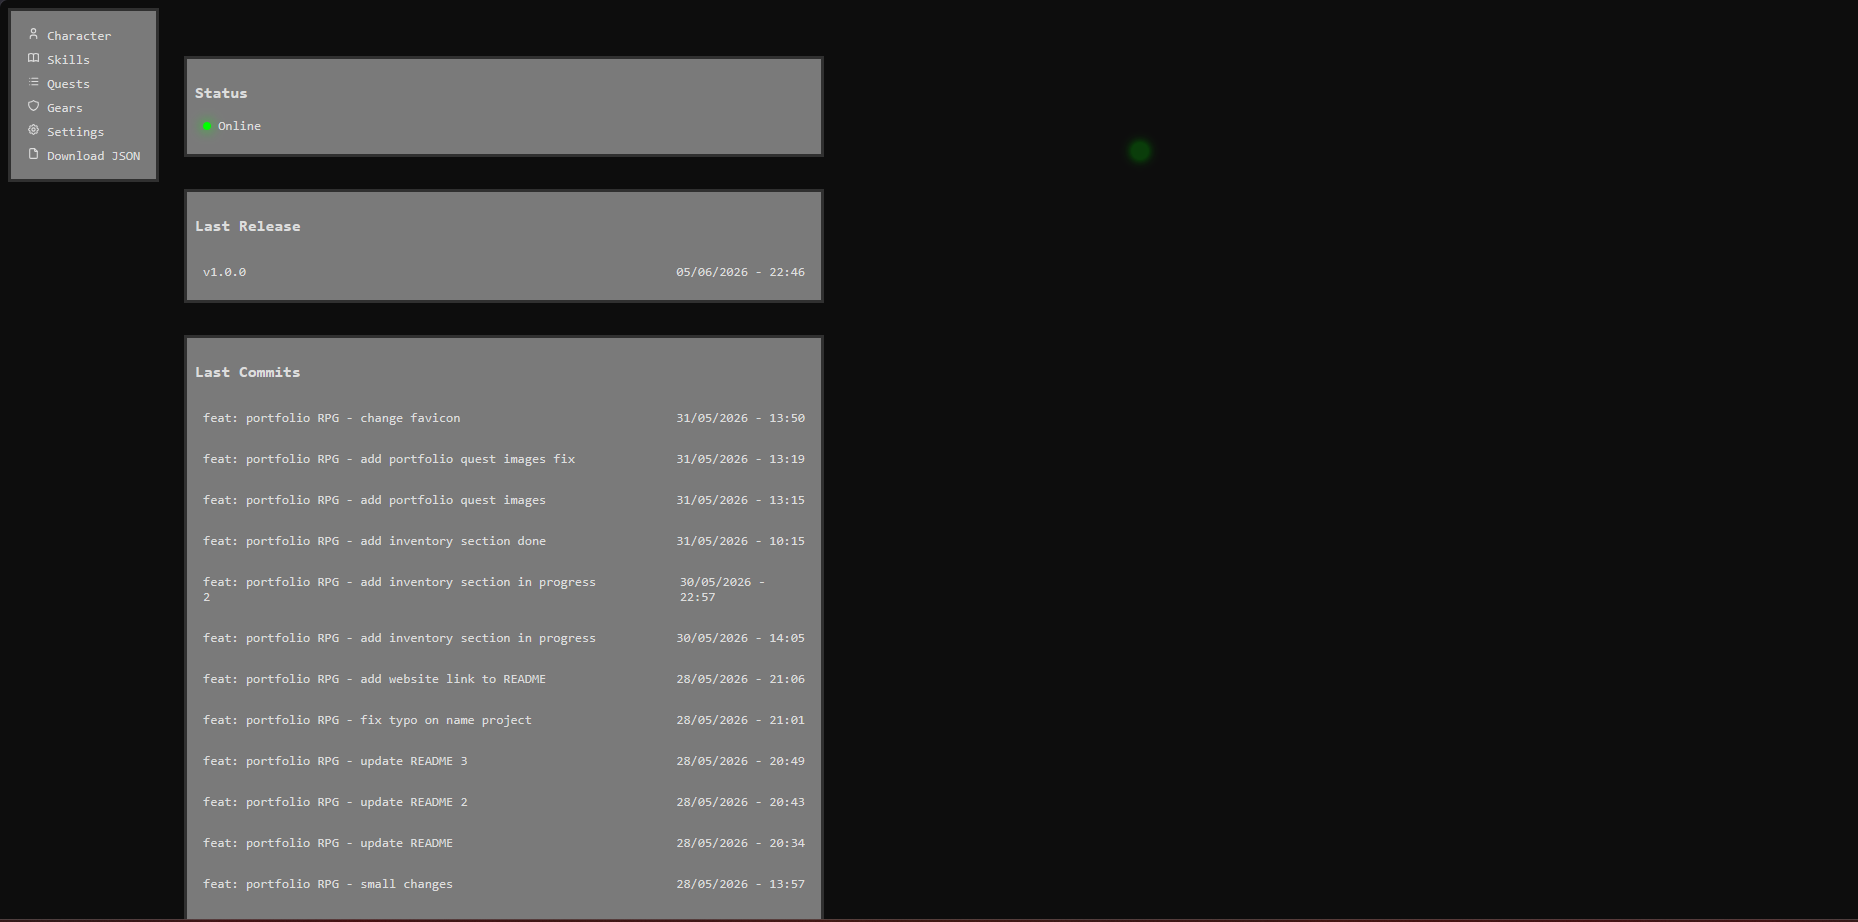
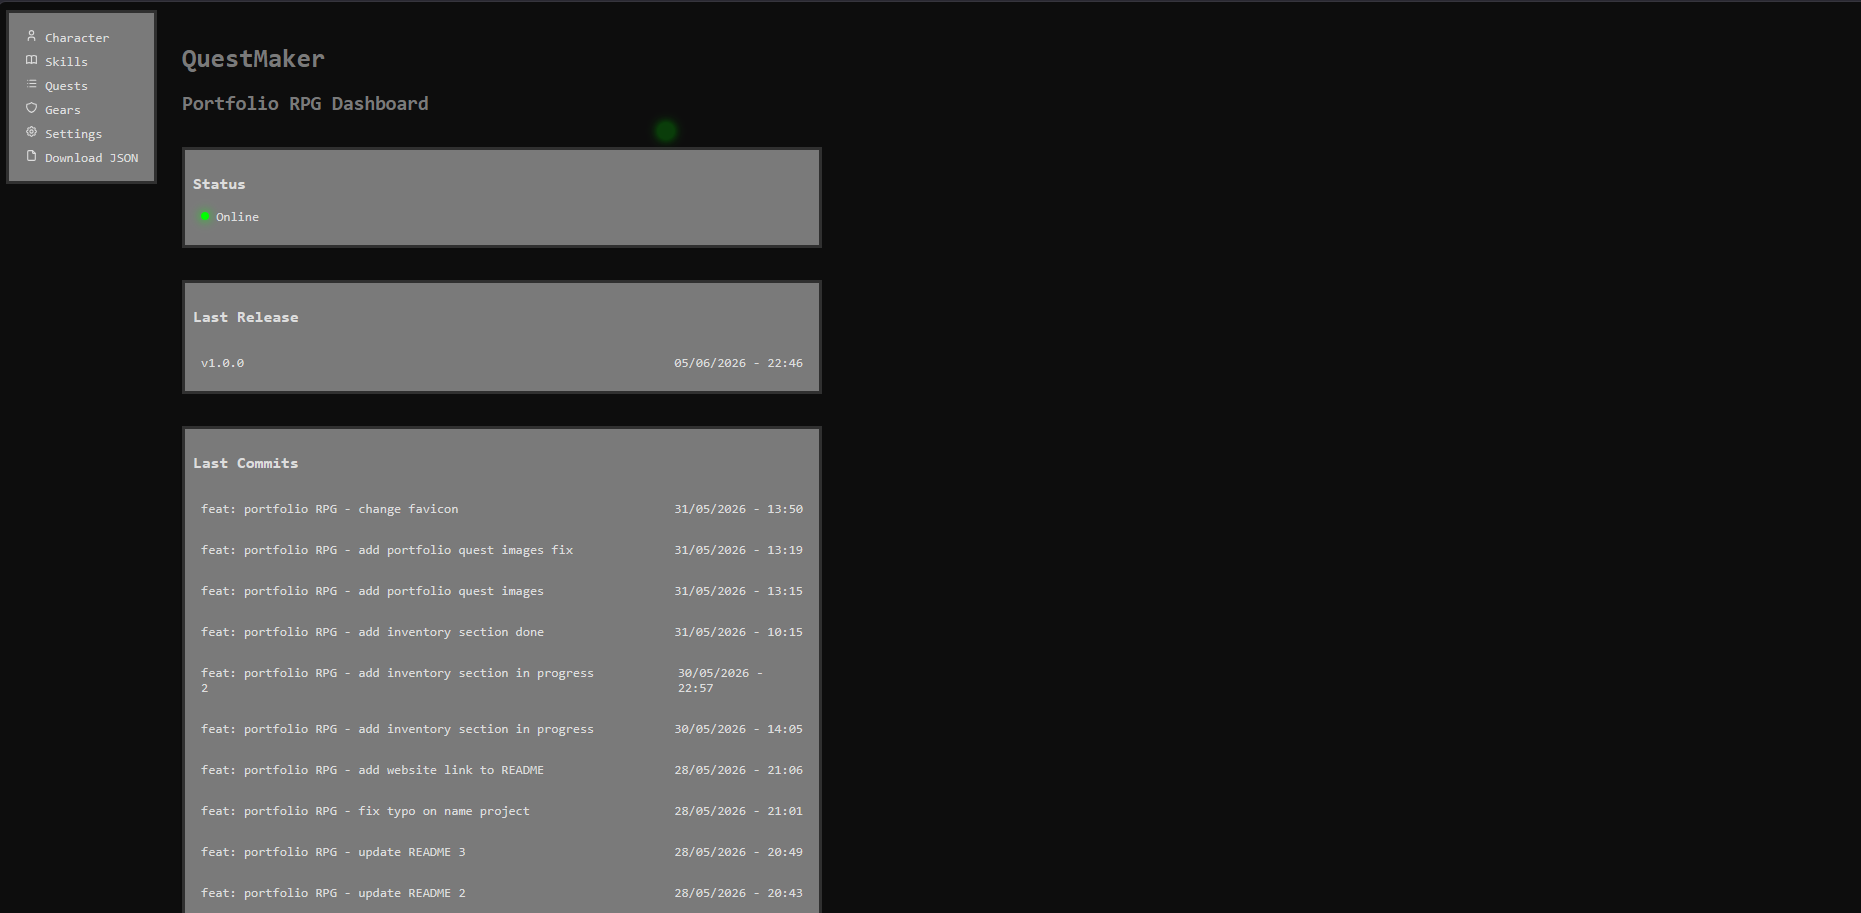
feat: QuestMaker - add preview image in README

Changed region(s): [[0.0, 0.0, 1.0, 1.0], [0.5931, 0.1533, 0.6243, 0.184], [0.2809, 0.7974, 0.3122, 0.828]]

diff --git a/README.md b/README.md
@@ -7,7 +7,7 @@ then exporting a data.json file to update the portfolio.
 Built as my second Angular project, mentored by Claude (Anthropic) throughout the development process.
 
 ## 🖼 Preview
-<!-- Add a screenshot here once deployed -->
+https://raw.githubusercontent.com/ymjid/portfolio-rpg-questmaker/main/public/assets/preview.png
 
 ## ✨ Features
 - Dashboard with portfolio status (online/offline, last release, commit feed)
